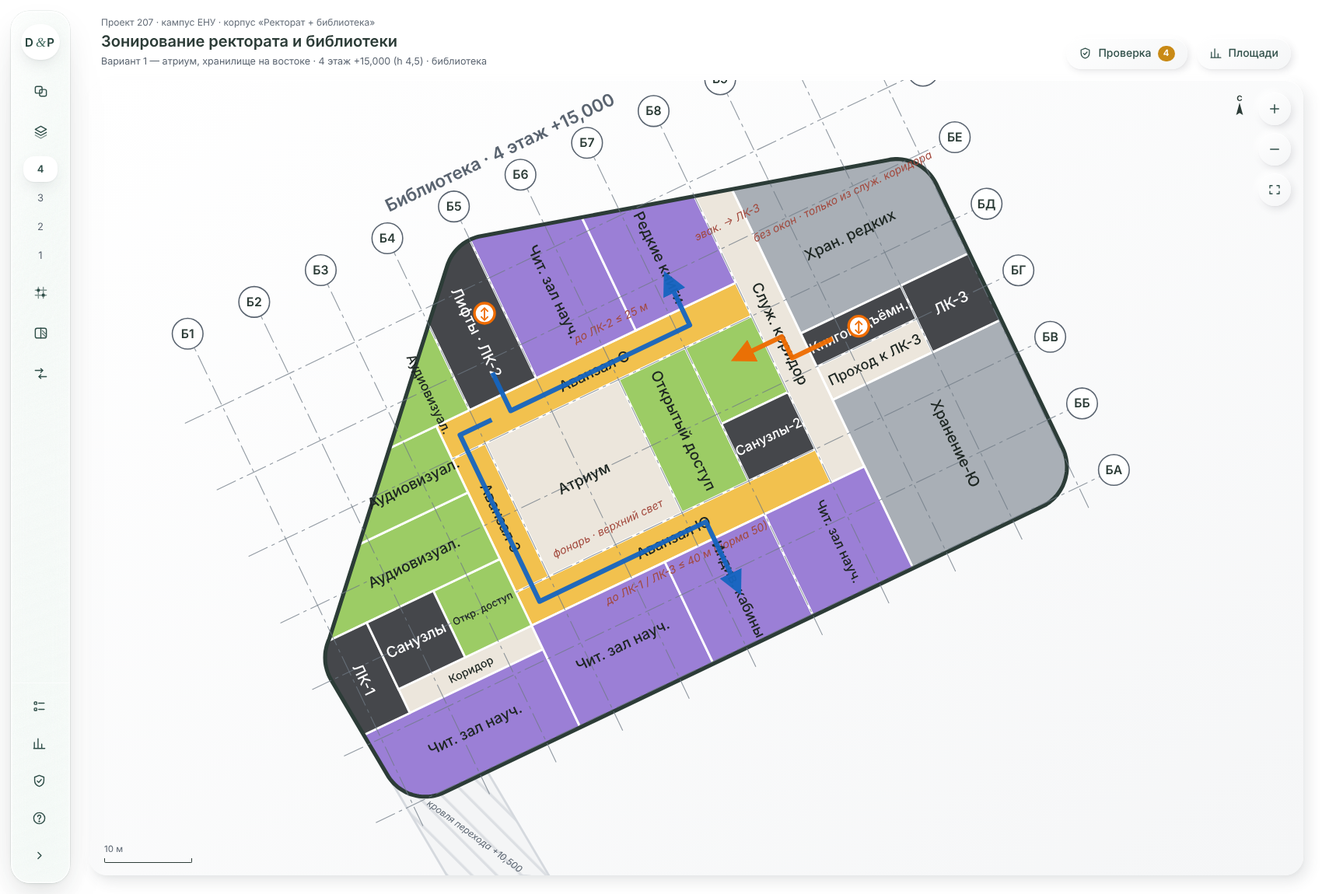
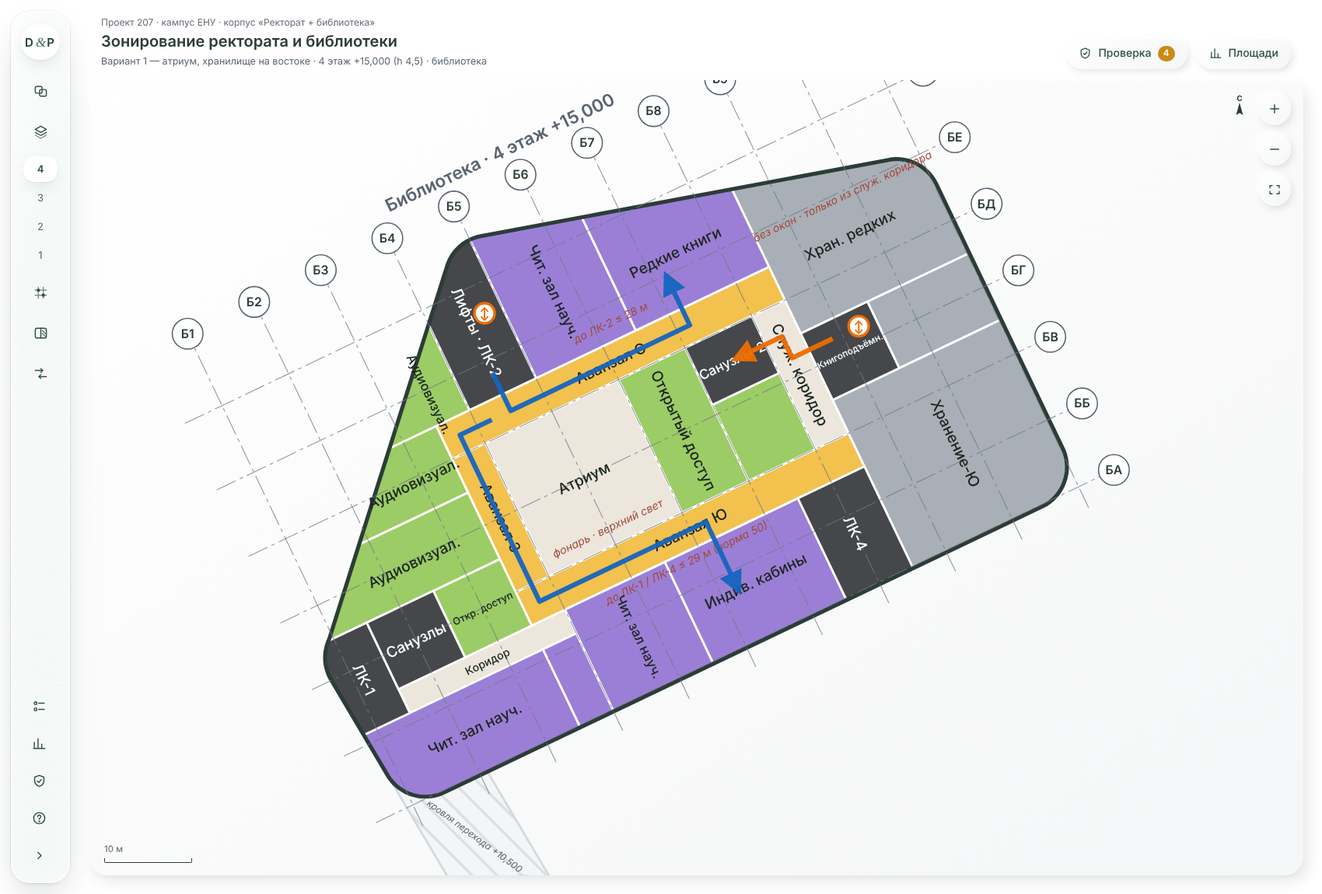
Библиотека: ЛК-4 вместо реставрации, ЛК-3 удалена, санузлы-2 к северному аванзалу, корридор ЛК-1 связан с аванзалом; расчёт людей и маршей
Claude-Session: https://claude.ai/code/session_01PBUMDRyqQNphWJTD6zJTqL

diff --git a/LIB_Zoning_REPORT.md b/LIB_Zoning_REPORT.md
@@ -6,32 +6,33 @@
 
 Заполнена только **библиотека** — она в нашей зоне ответственности. Ректорат и переход пустые, поэтому проверка даёт 4 предупреждения «не заполнен». Ошибок нет. На 2 этаже в ЮЗ углу оставлен холл под будущий переход (правило 6).
 
-## 1. Схема (по эскизу архитектора, 30.10)
+## 1. Схема (по эскизам архитектора, 30.10)
 
-- **Атриум уменьшен** до 2 × 2 шагов осей (16,8 × 16,8 м, 282 м² на этаже), оси Б4–Б6 / ББ+4,2–БД.
+- **Атриум** 16,8 × 16,8 м (282 м² на этаже), оси Б4–Б6 / ББ+4,2–БД.
   - Над ним фонарь, внутри парадная лестница.
   - Лестницу видно из вестибюля; вход в атриум — за контролем.
-- **Аванзалы** идут с трёх сторон атриума: Ю, З, С. Восточного аванзала больше нет.
+- **Аванзалы** идут с трёх сторон атриума: Ю, З, С. Южный тянется до ЛК-4, северный — до хранилища.
+  - Коридор от ЛК-1 соединён с южным аванзалом. Раньше они касались только углом — исправлено.
 - **Фонд открытого доступа** стоит прямо у атриума, с восточной стороны (п. 3.113).
-- **Служебный коридор** — ось Б8 (u 58,8–63), только для персонала. В северном торце у него окно.
-- **Хранилище расширено** от оси Б8+4,2 до ВСВ-фасада.
+- **Санузлы-2** перенесены на северную сторону, к северному аванзалу.
+- **Служебный коридор** — ось Б8, между южным и северным аванзалами, около 17 м длиной. Оба конца освещены через аванзалы от атриума, поэтому п. 4.3.3.1 выполнен.
+- **Хранилище** занимает восточный край от оси Б8+4,2 до ВСВ-фасада.
   - Окон нет, фонд не видит солнца (СН РК п. 5.4.6.5).
   - Попасть в хранилище можно только из служебного коридора.
-  - Южный отсек ≈ 495 м², северный ≈ 335 м²; оба ≤ 600 м² (п. 4.2.1.69).
-  - На 2 этаже лаборатории заменены хранилищем.
-- **Реставрация** перенесена на 2 этаж, туда, где указал архитектор: на место прежней ЛК-4, между южными залами и хранилищем. Свет — с ЮЮВ-фасада, вход — из служебного коридора.
-- **Лаборатория копирования** — на 1 этаже, у МБА.
-- **Читальные залы** стали больше: южные — на 3 м глубже, крайний — на месте ЛК-4.
-- **ЛК-3 и ЛК-4 прежней схемы убраны.** Восточная лестница при хранилище (раньше ЛК-5, теперь **ЛК-3**) общая: для персонала и для эвакуации читателей через служебный коридор. Почему она нужна — в разделе 3.
+  - На каждом этаже два отсека, оба ≤ 600 м² (п. 4.2.1.69): южный ≈ 495 м², северный ≈ 450 м² (вместе с местом бывшей ЛК-3).
+  - Между отсеками — книгоподъёмники и грузовой лифт.
+- **Реставрация удалена** по указанию архитектора. На 1 этаже остались копирование, обработка, служебный каталог, кладовые и приёмка.
+- **Лестницы: ЛК-1** (запад), **ЛК-2** (север, лифтовой узел), **ЛК-4** (юг, на месте бывшей реставрации, в торце южного аванзала). ЛК-3 у хранилища удалена — эвакуация это позволяет, расчёт в разделе 3.
+- **Северный читальный зал** у оси Б8 забрал северный торец бывшего служебного коридора.
 
 ## 2. По этажам
 
 | Этаж | Что размещено |
 |---|---|
-| **1** (h 6,0) | **Доконтрольная зона** (п. 3.108): главный вход посередине ЗСЗ-фасада, вестибюль (справочное бюро, запись, киоск, выставки, репрография), гардероб, портфели, доконтрольный холл, абонементы вдоль ЮЮВ-фасада, лекционный зал на 150 мест (п. 3.103). **Контроль** — турникеты в вестибюле. **За контролем:** дно атриума с парадной лестницей, холл к лифтам, СБО, каталоги, МБА, копирование. **Производственная зона** (п. 3.109): служебный вход с гардеробом, психологической разгрузкой и приёмом пищи (СН РК 3.02-08 п. 5.4.4.23, 5.4.4.29), комплектование и обработка, приёмка с ВСВ-фасада, служебный каталог, кладовые. Хранение — северный отсек, стеллажи в два яруса (п. 3.111). |
-| **2** | Учебное отделение (п. 3.106): 5 читальных залов (С, ЮЮВ), групповые, открытый доступ. **Реставрация** у хранилища. Хранение — оба отсека. Холл перехода (резерв). |
+| **1** (h 6,0) | **Доконтрольная зона** (п. 3.108): главный вход посередине ЗСЗ-фасада, вестибюль (справочное бюро, запись, киоск, выставки, репрография), гардероб, портфели, доконтрольный холл, абонементы вдоль ЮЮВ-фасада, лекционный зал на 150 мест (п. 3.103). **Контроль** — турникеты в вестибюле. **За контролем:** дно атриума с парадной лестницей, холл к лифтам, СБО, каталоги, МБА, лаборатория копирования. **Производственная зона** (п. 3.109): служебный вход с гардеробом, психологической разгрузкой и приёмом пищи (СН РК 3.02-08 п. 5.4.4.23, 5.4.4.29), комплектование и обработка, приёмка с ВСВ-фасада, служебный каталог, кладовые. Хранение — северный отсек, стеллажи в два яруса (п. 3.111). |
+| **2** | Учебное отделение (п. 3.106): 6 читальных залов (С, ЮЮВ), групповые, открытый доступ. Хранение — оба отсека. Холл перехода (резерв). |
 | **3** | Учебное и научное отделения: 2 учебных зала, 2 научных, зал ППС, справочно-реферативный, групповые, открытый доступ. Хранение — оба отсека. |
-| **4** | Научное отделение: залы по отраслям, кабины, периодика. Зал редких книг (С). Хранилище редких изданий — северный отсек за противопожарными стенами (СН РК п. 5.3.1.30). Аудиовизуальные залы. Хранение — южный отсек. |
+| **4** | Научное отделение: залы по отраслям, индивидуальные кабины. Зал редких книг (С). Хранилище редких изданий — северный отсек за противопожарными стенами (СН РК п. 5.3.1.30). Аудиовизуальные залы. Хранение — южный отсек. |
 
 ## 3. Люди на этажах и эвакуация (II степень огнестойкости)
 
@@ -42,64 +43,71 @@
 | Помещения | Норма на 1 чел. | 1 эт. | 2 эт. | 3 эт. | 4 эт. |
 |---|---|---:|---:|---:|---:|
 | Лекционный зал | 150 мест | 150 | — | — | — |
-| Абонементы | 1,8 м² | 280 | — | — | — |
+| Абонементы | 1,8 м² | 253 | — | — | — |
 | Каталоги, СБО | 3,5–4 м² | 100 | — | — | — |
-| Читальные залы учебного отд. | 2,4 м² | — | 301 | 158 | — |
-| Читальные залы научного отд. | 3 м² | — | — | 200 | 279 |
+| Читальные залы учебного отд. | 2,4 м² | — | 332 | 153 | — |
+| Читальные залы научного отд. | 3 м² | — | — | 182 | 245 |
 | Групповые | 2,2 м² | — | 114 | 114 | — |
-| Аудиовизуальные, редкие книги | 5 м² | — | — | — | 79 |
+| Аудиовизуальные, редкие книги | 5 м² | — | — | — | 90 |
 | Открытый доступ | ≈ 10 м² (допущение) | — | 26 | 26 | 26 |
-| Персонал: выдача, хранилище, службы, лаборатории | 6 м² / по штату | 80 | 34 | 10 | 10 |
-| **Итого на этаже** | | **≈ 610** | **≈ 475** | **≈ 508** | **≈ 394** |
+| Персонал: выдача, хранилище, службы | 6 м² / по штату | 80 | 12 | 12 | 8 |
+| **Итого на этаже** | | **≈ 584** | **≈ 484** | **≈ 487** | **≈ 368** |
 
-С 1 этажа люди выходят прямо наружу: через главный вход, выходы из лекционного зала и абонемента, служебный вход и выходы ЛК-1, ЛК-2, ЛК-3. По лестницам эвакуируются только 2–4 этажи; самый нагруженный из них — **3 этаж, ≈ 508 человек**.
+С 1 этажа люди выходят прямо наружу: через главный вход, выходы из лекционного зала и абонемента, служебный вход и выходы ЛК-1, ЛК-2, ЛК-4. По лестницам эвакуируются только 2–4 этажи; самые нагруженные из них — **2 и 3 этажи, ≈ 485 человек**.
 
 ### 3.2. Сколько людей уходит на каждую лестницу
 
-Каждое помещение отнесено к ближайшей ЛК по длине пути.
+Каждое помещение отнесено к ближайшей ЛК по длине пути. Хранилище и открытый доступ делят людей поровну между двумя направлениями.
 
-| Этаж | ЛК-1 (запад) | ЛК-2 (север, лифтовой узел) | ЛК-3 (восток, через служебный коридор) | Всего |
+| Этаж | ЛК-1 (запад) | ЛК-2 (север) | ЛК-4 (юг) | Всего |
 |---|---:|---:|---:|---:|
-| 2 | 118 | 260 | 97 | 475 |
-| 3 | 166 | 234 | 109 | 508 |
-| 4 | 134 | 151 | 109 | 394 |
+| 2 | 111 | 279 | 94 | 484 |
+| 3 | 159 | 249 | 78 | 487 |
+| 4 | 129 | 162 | 78 | 368 |
 
 **Пропускная способность.** Беру 165 человек на 1 м ширины марша для I–II степени (СНиП 2.08.02-89* п. 1.105). В присланных фрагментах СН РК такой нормы нет — **допущение, проверить по действующим нормам РК**.
-- Марш 1,5 м (минимум по п. 4.2.2.33) пропускает 247 человек. На ЛК-2 2 этажа приходится 260 — **не хватает**.
-- Принимаю **марши 1,6 м во всех трёх ЛК**: 264 человека на клетку, всего 792 на этаж при 508 нужных.
-- **Если одна ЛК заблокирована** (п. 5.3.2.1 требует это учитывать): две оставшиеся пропускают 2 × 264 = 528 ≥ 508. Проходит.
 
-### 3.3. Зачем нужна третья лестница (ЛК-3 у хранилища)
+| ЛК | Марш, м | Пропускает, чел. | Максимум с этажа | Итог |
+|---|---:|---:|---:|---|
+| ЛК-1 | 1,6 | 264 | 159 | проходит |
+| ЛК-2 | **1,8** | 297 | 279 | проходит (при 1,6 м — 264, не хватает) |
+| ЛК-4 | 1,6 | 264 | 94 | проходит |
 
-С двумя ЛК (ЛК-1 и ЛК-2) не выполняются три требования:
-1. **Ширина.** Две клетки по 1,5 м пропускают 495 человек, а на 3 этаже их 508. При блокировке одной клетки остаётся 247.
-2. **Расстояние.** От двери реставрации и восточной части южных залов до ЛК-1 ≈ 53 м — больше предела 50 м (табл. 9, графа 3).
-3. **Выход из хранилища.** У каждого отсека должен быть второй эвакуационный выход (СН РК п. 5.3.1.29). Без ЛК-3 хранилище выходит только в служебный коридор.
+**Нужная ширина всего:** 487 / 165 = 2,95 м. Есть 1,6 + 1,8 + 1,6 = 5,0 м.
 
-Поэтому из прежних ЛК-3, ЛК-4 и ЛК-5 оставлена одна — у хранилища. Её окна и выход наружу — на ВСВ-фасаде.
+**Если одна ЛК заблокирована** (п. 5.3.2.1):
+- без ЛК-2: ЛК-1 + ЛК-4 = 3,2 м → 528 чел. ≥ 487 — проходит;
+- без ЛК-1: ЛК-2 + ЛК-4 = 3,4 м → 561 чел. — проходит.
 
-Читатели восточной части выходят к ней из южного и северного аванзалов через **эвакуационные двери в служебный коридор**: двери открываются только на выход, с антипаникой, в обычное время закрыты. **Это нужно согласовать**, потому что эвакуация идёт через служебную зону.
+### 3.3. Можно ли убрать ЛК-3 — да
 
-Закрытых клеток три, а п. 5.3.2.10 требует для Ф2.1 не меньше двух. Открытая парадная лестница в эвакуацию не входит.
+Три лестницы ЛК-1, ЛК-2 и ЛК-4 закрывают все требования:
+1. **Число клеток.** П. 5.3.2.10 для Ф2.1 требует не меньше двух закрытых ЛК — их три. Открытая лестница атриума в эвакуацию не входит.
+2. **Расстояния.** Самый дальний путь — ≤ 29 м при пределе 50 (табл. 9, графа 3).
+3. **Ширина.** Хватает, в том числе при блокировке одной ЛК.
+4. **Хранилище** (СН РК п. 5.3.1.29).
+   - Южный отсек выходит в служебный коридор и прямо в ЛК-4.
+   - Северный отсек выходит двумя дверями в служебный коридор, а из коридора можно уйти в две стороны: на юг к ЛК-4 и на север через аванзал к ЛК-2. Такое решение для запасного выхода **нужно согласовать**.
+
+С ЛК-4 в торце южного аванзала читатели больше не эвакуируются через служебную зону.
 
 ### 3.4. Расстояния (табл. 9, графа 3 для вузов; табл. 8)
 
 | Участок | Предел, м | Фактически, м |
 |---|---:|---:|
-| Южный аванзал: двери залов → ЛК-1 или ЛК-3 | 50 | ≤ 40 |
-| Северный аванзал: двери залов → ЛК-2 | 50 | ≤ 25 |
-| Западный аванзал, групповые → ЛК-2 | 50 | ≤ 20 |
-| Открытый доступ → ЛК-2 или ЛК-3 | 50 | ≤ 35 |
-| Реставрация → ЛК-3 по служебному коридору | 50 | ≈ 28 |
+| Южный аванзал и коридор: двери залов → ЛК-1 или ЛК-4 | 50 | ≤ 29 |
+| Северный аванзал: двери залов → ЛК-2 (или по служебному коридору к ЛК-4) | 50 | ≤ 28 |
+| Западный аванзал, групповые → ЛК-2 или ЛК-1 | 50 | ≤ 20 |
+| Открытый доступ → ЛК-4 или ЛК-2 | 50 | ≤ 25 |
+| Хранилище: дверь отсека → ЛК-4 по служебному коридору | 50 | ≤ 25 |
 | Внутри читальных залов (табл. 8, I–II степень) | 65 | ≤ 25 |
 
 ### 3.5. Прочее
 
 - **Площадь этажа.** 3 836 ≤ 4 000 м² (табл. 1, II степень).
 - **Атриум.** На 2–4 этажах отделён от этажей противопожарным остеклением; нужна противодымная вентиляция.
-- **Хранилище.** Отсеки ≤ 600 м² (п. 4.2.1.69); у каждого два выхода — в служебный коридор и к ЛК-3 (п. 5.3.1.29).
 - **Этажность.** 4 этажа ≤ 9 (п. 4.2.1.68).
-- **Помещения больше 50 человек** — читальные залы и абонемент — должны иметь по два выхода. Это решается на стадии планировки.
+- **Помещения больше 50 человек** должны иметь по два выхода. Это решается на стадии планировки.
 
 ## 4. Площади помещений, м² (брутто, черновик)
 
@@ -109,19 +117,19 @@
 |---|---:|---:|---:|---:|---:|
 | Вестибюль, гардероб, контроль | 356 | — | — | — | 356 |
 | Лекционный зал на 150 мест | 214 | — | — | — | 214 |
-| Абонементы | 573 | — | — | — | 573 |
+| Абонементы | 519 | — | — | — | 519 |
 | Каталоги и СБО | 423 | — | — | — | 423 |
-| Аванзалы (Ю, З, С) | — | 388 | 388 | 388 | 1 164 |
-| Читальные залы учебного отделения | — | 821 | 430 | — | 1 251 |
+| Аванзалы (Ю, З, С) | — | 423 | 423 | 423 | 1 270 |
+| Читальные залы учебного отделения | — | 906 | 417 | — | 1 323 |
 | Кабинеты групповых занятий | — | 285 | 285 | — | 571 |
-| Читальные залы научного отделения | — | — | 684 | 955 | 1 639 |
-| Аудиовизуальные залы, зал и хранилище редких книг | — | — | — | 768 | 768 |
+| Читальные залы научного отделения | — | — | 620 | 835 | 1 454 |
+| Аудиовизуальные залы, зал и хранилище редких книг | — | — | — | 920 | 920 |
 | Фонд открытого доступа | — | 292 | 292 | 292 | 877 |
-| Закрытое книгохранилище | 324 | 770 | 770 | 446 | 2 310 |
-| Служебные и лаборатории (МБА, копирование, служебный вход, приёмка, обработка, служебный каталог, кладовые, портфели, реставрация) | 730 | 162 | — | — | 892 |
+| Закрытое книгохранилище | 432 | 878 | 878 | 446 | 2 634 |
+| Служебные (МБА, копирование, служебный вход, приёмка, обработка, служебный каталог, кладовые, портфели) | 719 | — | — | — | 719 |
 | Атриум | 282 | 282 | 282 | 282 | 1 129 |
-| Коридоры, холлы, служебный коридор, проход к ЛК-3 | 483 | 384 | 253 | 253 | 1 373 |
-| Лестничные клетки, лифты, книгоподъёмники | 320 | 320 | 320 | 320 | 1 281 |
+| Коридоры, холлы, служебный коридор | 387 | 265 | 134 | 134 | 919 |
+| Лестничные клетки, лифты, книгоподъёмники | 373 | 373 | 373 | 373 | 1 493 |
 | Санузлы | 131 | 131 | 131 | 131 | 524 |
 | **Итого** | **3 836** | **3 836** | **3 836** | **3 836** | **15 344** |
 
@@ -129,37 +137,36 @@
 
 | Группа | Брутто | ≈ полезная ×0,88 | Норма | Разница |
 |---|---:|---:|---:|---:|
-| Абонемент | 573 | 504 | 678 | −174 |
-| Аванзал | 1 164 | 1 025 | 450 | +575 ¹ |
+| Абонемент | 519 | 457 | 678 | −221 |
+| Аванзал | 1 270 | 1 118 | 450 | +668 ¹ |
 | Каталоги, СБО | 423 | 372 | 503 | −131 |
-| Читальные залы учебного отд. | 1 251 | 1 101 | 1 728 | −627 |
+| Читальные залы учебного отд. | 1 323 | 1 164 | 1 728 | −564 |
 | Групповые | 571 | 502 | 792 | −290 |
-| Читальные залы научного отд. | 1 639 | 1 442 | 2 700 | −1 258 |
-| Аудиовизуальные, редкие книги | 768 | 676 | 900 | −224 |
-| Закрытое хранение | 2 310 | 2 033 | 3 202 | −1 169 ² |
+| Читальные залы научного отд. | 1 454 | 1 280 | 2 700 | −1 420 |
+| Аудиовизуальные, редкие книги | 920 | 809 | 900 | −91 |
+| Закрытое хранение | 2 634 | 2 318 | 3 202 | −884 ² |
 | Открытый доступ | 877 | 772 | 1 800 | −1 028 |
-| Обработка и служебные | 892 | 785 | 1 259 | −474 |
-| **Итого табл. 26** | **10 468** | **≈ 9 210** | **14 012** | **≈ −4 800** |
+| Обработка и служебные | 719 | 633 | 1 259 | −626 ³ |
+| **Итого табл. 26** | **10 710** | **≈ 9 425** | **14 012** | **≈ −4 590** |
 
 ¹ Аванзалы — это ещё и галереи вокруг атриума и пути эвакуации.
-² Если учесть второй ярус стеллажей на 1 этаже, нехватка уменьшается на ≈ 285 м².
+² Если учесть второй ярус стеллажей на 1 этаже, нехватка уменьшается на ≈ 380 м².
+³ Реставрация удалена по указанию архитектора, но в табл. 26 она входит в группу «лаборатории» (360 м²). Решите, где она будет: в подвале или в другом здании.
 
-**Места в залах:** учебных ≈ 460, научных ≈ 480, групповых ≈ 230, аудиовизуальных и редких ≈ 80 — всего ≈ 1 250.
-
-По сравнению с прошлой схемой: хранение +850 м², залы +340 м², атриум −534 м², лестниц стало на 2 меньше.
+**Места в залах:** учебных ≈ 485, научных ≈ 425, групповых ≈ 230, аудиовизуальных и редких ≈ 85 — всего ≈ 1 225.
 
 ## 5. Что не помещается и что предлагаю
 
-Нехватка — около 4 800 м² полезной площади; больше всего не хватает научных залов и открытого доступа. Варианты (решает архитектор):
-1. **Подвал под хранилищем** (п. 3.110).
+Нехватка — около 4 600 м² полезной площади; больше всего не хватает научных залов, открытого доступа и хранения. Варианты (решает архитектор):
+1. **Подвал под хранилищем** — хранение, реставрация, обменный фонд (п. 3.110).
 2. **Компактные стеллажи** для основного хранения.
 3. **Пересчитать число мест.** ПЗ заказчика 7 400 м².
 
 ## 6. Открытые вопросы
 
-- **Эвакуация через служебный коридор.** Читатели восточной части выходят к ЛК-3 через служебный коридор — нужно согласовать с пожарным экспертом. Альтернатива — вернуть читательскую ЛК в торец южного аванзала.
-- **Пропускная способность маршей.** 165 человек на 1 м марша взято из СНиП 2.08.02-89* — проверить по действующим нормам РК.
-- **Служебный коридор** ≈ 43 м с окном только в северном торце. По п. 4.3.3.1 при одностороннем освещении предел 24 м — нужен второй свет (остеклённые двери в аванзалы) или согласование: коридор служебный.
+- **Пропускная способность маршей.** 165 человек на 1 м марша взято из СНиП 2.08.02-89* — проверить по действующим нормам РК. От этого зависит ширина марша ЛК-2: 1,8 м.
+- **Запасной выход северного отсека хранилища** — через служебный коридор в две стороны. Согласовать.
+- **Реставрация** удалена, место для неё нужно определить.
 - **Лифтовой узел (правило 3).** У фасада стоит ЛК-2, шахты — за ней.
 - **Дирекция библиотеки** — в табл. 26 её нет. Нужен состав от технолога.
 - **Буфет и курительные** (п. 3.108) не размещены: правило 5 задания запрещает добавлять что-то сверх программы.
